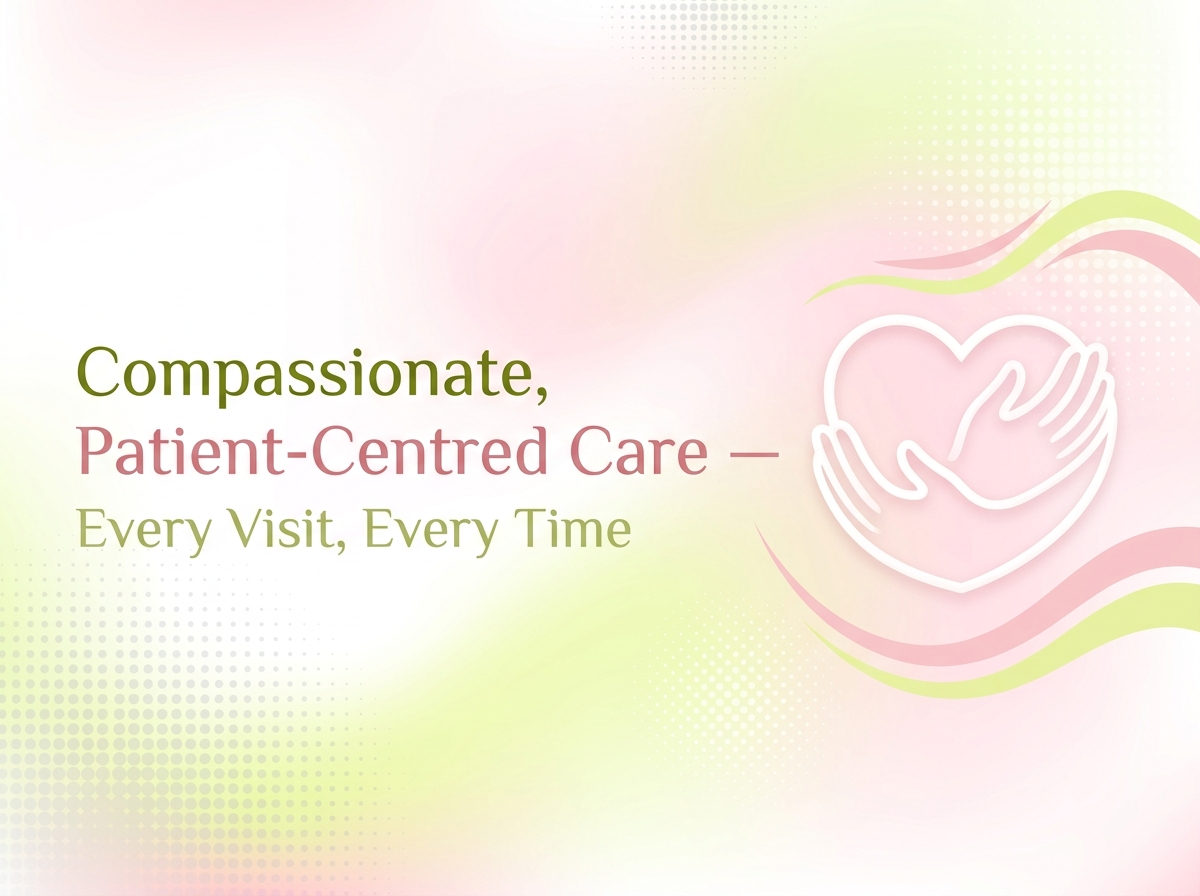
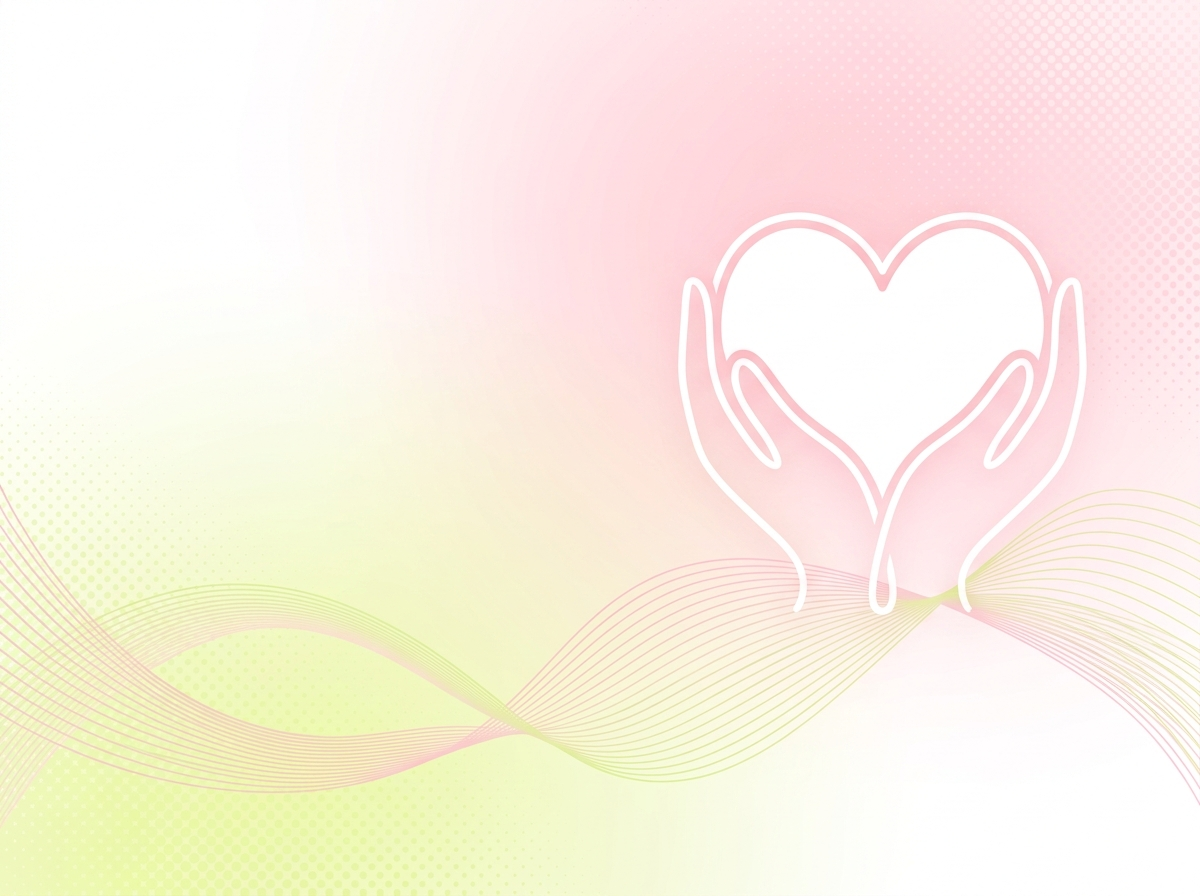
Fix: use text-free gradient graphics and fix hero card overlay styling

diff --git a/index.html b/index.html
@@ -235,21 +235,20 @@
                 </div>
                 <div class="relative hidden md:block" data-aos="fade-left" data-aos-duration="1000"
                     data-aos-delay="200">
-                    <!-- Featured Reception Image Display Card -->
+                    <!-- Featured Hero Graphic Display Card -->
                     <div
                         class="aspect-square rounded-[2.5rem] bg-white p-2.5 shadow-2xl relative overflow-hidden border-4 border-white/80 group">
-                        <img src="hero-bg.jpg" alt="24-Hour Emergency & Critical Care — Always Here For You"
+                        <img src="hero-bg.jpg" alt="24-Hour Emergency & Critical Care"
                             class="w-full h-full object-cover rounded-[2rem] transform transition-transform duration-700 group-hover:scale-105">
                         <div
-                            class="absolute inset-0 rounded-[2rem] bg-gradient-to-t from-gray-900/70 via-transparent to-transparent opacity-85">
+                            class="absolute inset-0 rounded-[2rem] bg-gradient-to-t from-white/60 via-transparent to-transparent">
                         </div>
-                        <div class="absolute bottom-6 left-6 right-6 text-white">
+                        <div class="absolute bottom-6 left-6 right-6">
                             <span
-                                class="bg-primary text-white text-xs font-bold px-3 py-1 rounded-full uppercase tracking-wider shadow-sm mb-2 inline-block">Reception
-                                & Triage Desk</span>
-                            <h3 class="text-xl font-bold text-white leading-snug">Warm & Efficient Reception</h3>
-                            <p class="text-xs text-lime-100 opacity-90 mt-1">NHIS Accredited Provider • 24/7 Patient
-                                Intake</p>
+                                class="bg-primary text-white text-xs font-bold px-3 py-1 rounded-full uppercase tracking-wider shadow-sm mb-2 inline-block">24/7
+                                Emergency Care</span>
+                            <h3 class="text-xl font-bold text-gray-800 leading-snug">Always Here For You</h3>
+                            <p class="text-xs text-gray-600 mt-1">NHIS Accredited Provider • Specialist Clinic</p>
                         </div>
                     </div>
                     <!-- Floating Card -->
